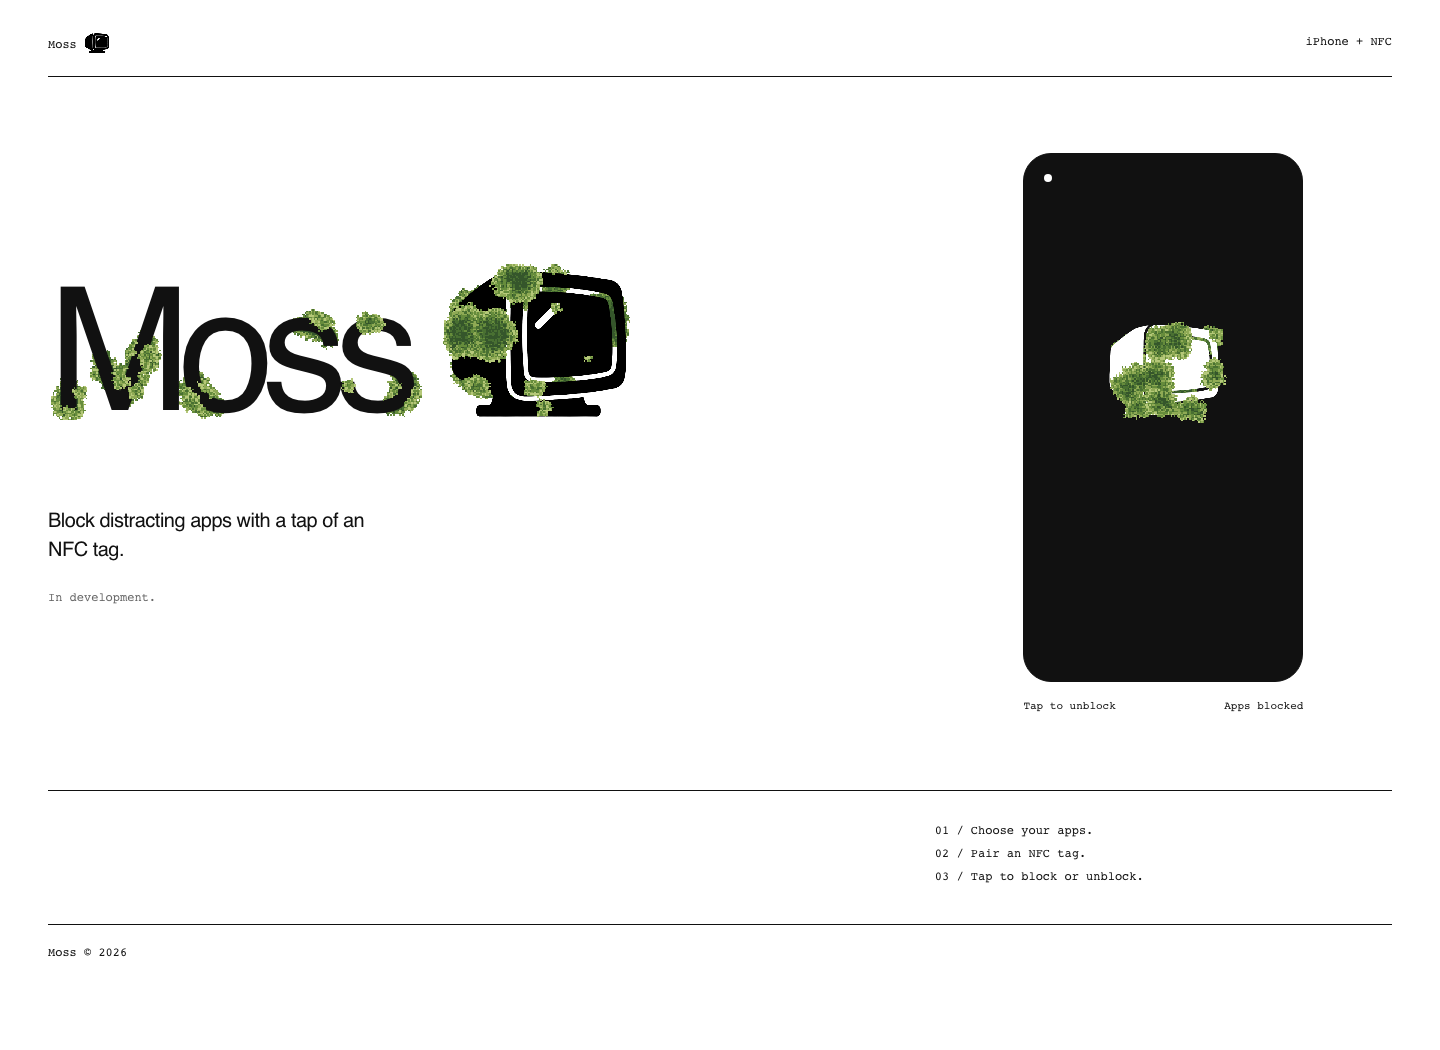
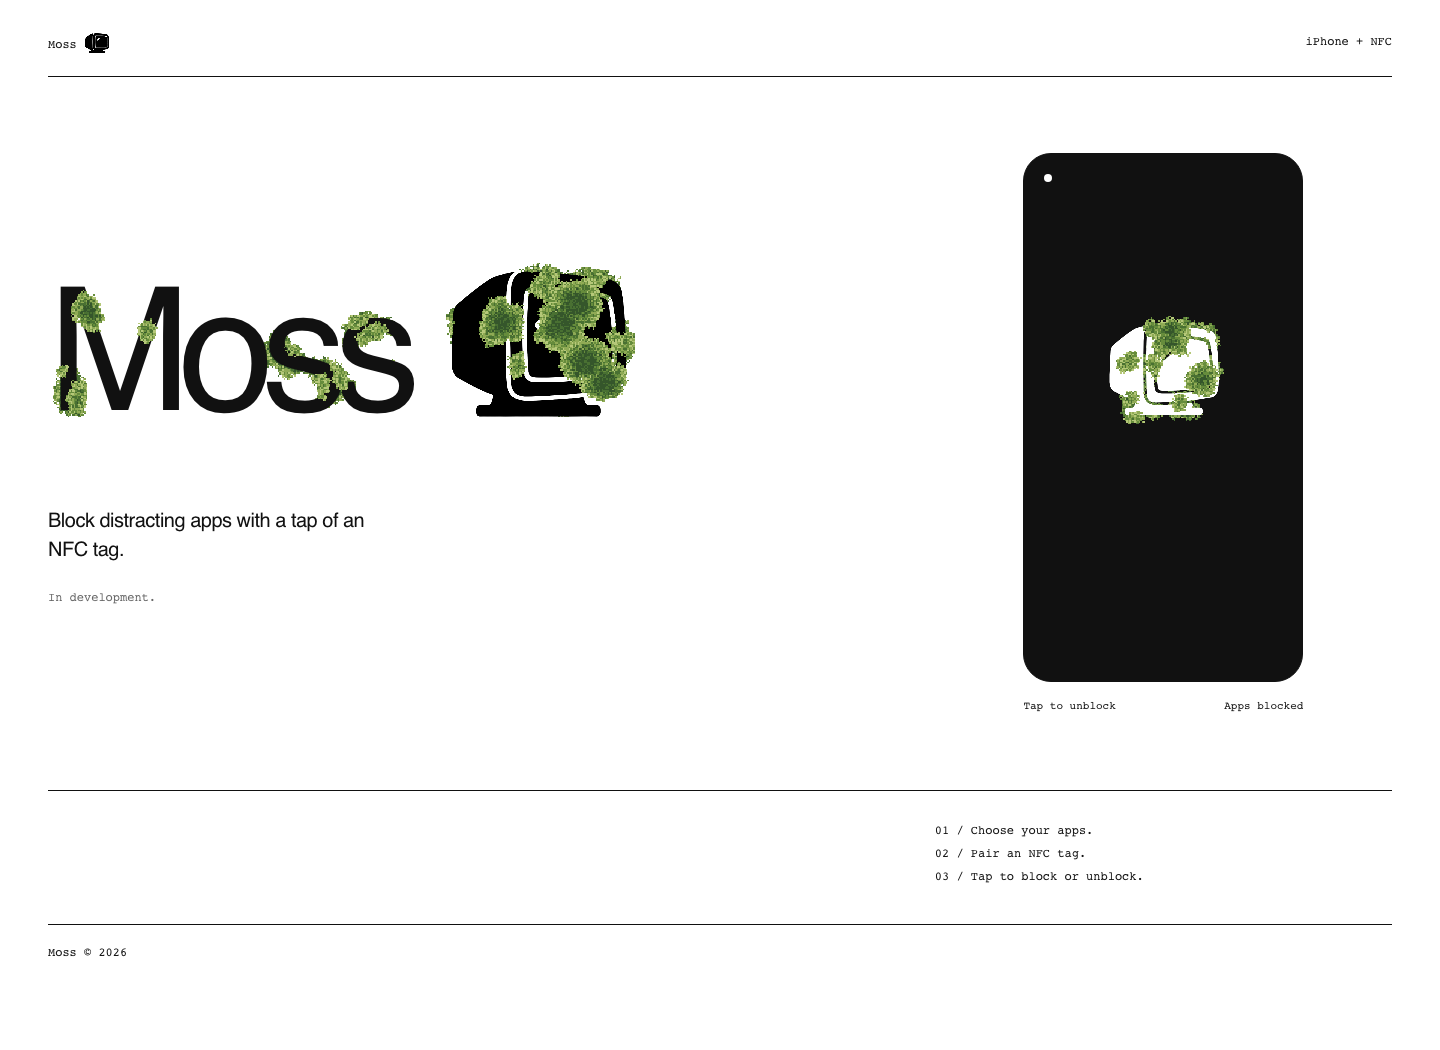
Exclude enclosed white PNG regions from moss surfaces

Changed region(s): [[0.1875, 0.2438, 0.4375, 0.3962], [0.0312, 0.2743, 0.1562, 0.3962], [0.75, 0.3048, 0.875, 0.4267]]

diff --git a/icons.js b/icons.js
@@ -9,8 +9,8 @@ export const icons = [
   { id: 'computer-heavy', name: 'Computer / heavy (6)', src: 'assets/computer-heavy.svg' },
   { id: 'computer-solid', name: 'Computer / filled', src: 'assets/computer-solid.svg' },
   { id: 'computer-thin-surface', name: 'Thin / surface growth, slower', src: 'assets/computer-thin.svg', fillInterior: true, spreadRate: .45 },
-  { id: 'computer-image-1', name: 'Your computer / dark screen', src: 'assets/computer-image-1.png', fillInterior: true },
-  { id: 'computer-image-2', name: 'Your computer / light screen', src: 'assets/computer-image-2.png', fillInterior: true },
+  { id: 'computer-image-1', name: 'Your computer / dark screen', src: 'assets/computer-image-1.png' },
+  { id: 'computer-image-2', name: 'Your computer / light screen', src: 'assets/computer-image-2.png' },
 ];
 
 export const defaultIcon = icons.find(icon => icon.id === 'computer-image-1');

diff --git a/README.md b/README.md
@@ -26,6 +26,6 @@ Open `prototypes.html` to compare the two supplied computer PNGs, with dark and 
 
 `docs/provided-computers.png` compares the supplied images and both wordmark treatments. `docs/computer-studies.png` compares the SVG computer variants with and without moss. `docs/icon-studies.png` and `docs/icon-studies-grown.png` show all previews bare and with equal-direction moss growth.
 
-The supplied PNG files are unchanged. Their white backgrounds are excluded from the simulation by sampling dark pixels. For the PNGs and a separate thin-outline surface experiment, enclosed screen/bezel regions become solid habitat too; exterior gaps stay empty. That thin experiment uses 45% of the normal spread/seeding probability while keeping maturation and drying unchanged. The original thin outline remains available for comparison. Text counters keep their original open masks. Native PNGs use monochrome contrast and blending to sit on white or black previews.
+The supplied PNG files are unchanged. Only their dark pixels count as surface; white backgrounds, screens, and highlights do not seed moss. Moss can still spread into the six-cell fringe around the dark pixels. A separate thin-outline surface experiment fills enclosed screen/bezel regions and uses 45% of the normal spread/seeding probability while keeping maturation and drying unchanged. The original thin outline remains available for comparison. Text counters keep their original open masks. Native PNGs use monochrome contrast and blending to sit on white or black previews.
 
 The tree trunk fills the preview vertically, from roots at the bottom through the top edge. Its moss grid uses approximately 1.5 CSS pixels per cell; regular icons keep a 144-column grid with height following their preview's aspect ratio. The habitat is sampled from the icon's actual placement so both rendering layers align. The landing-page title and river stone wordmark share the same text/image mask operation, using native font metrics and rebuilding when their size changes.
